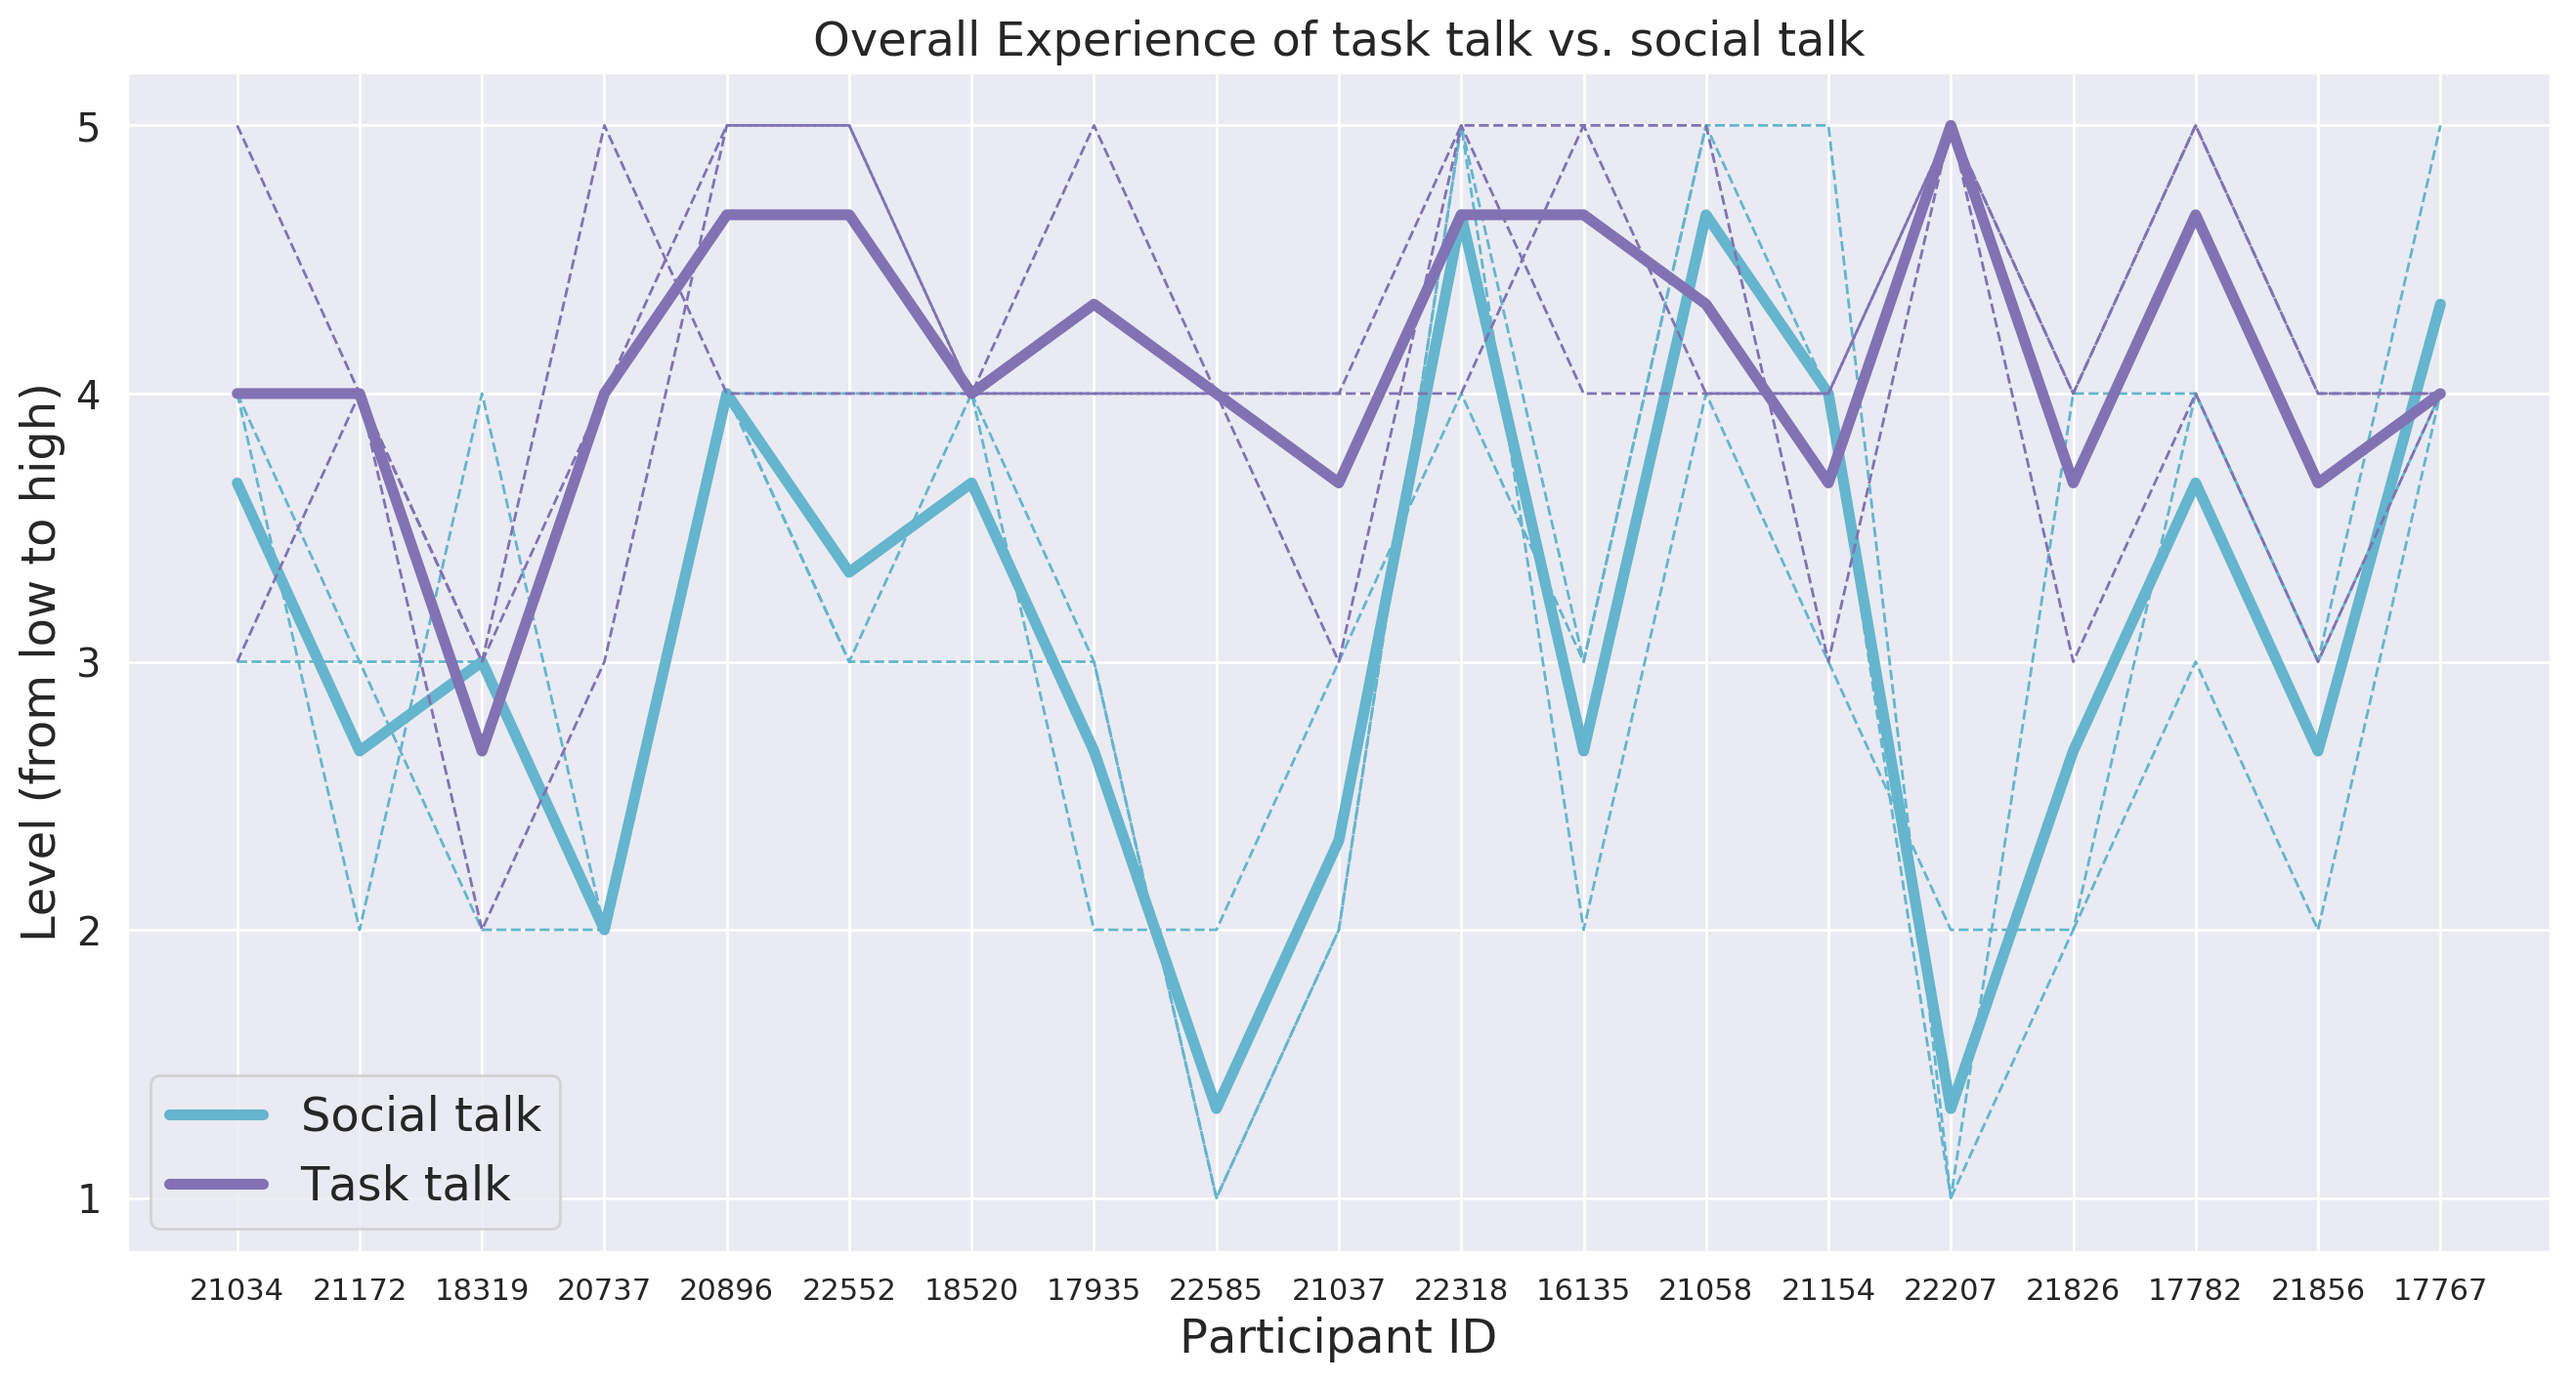
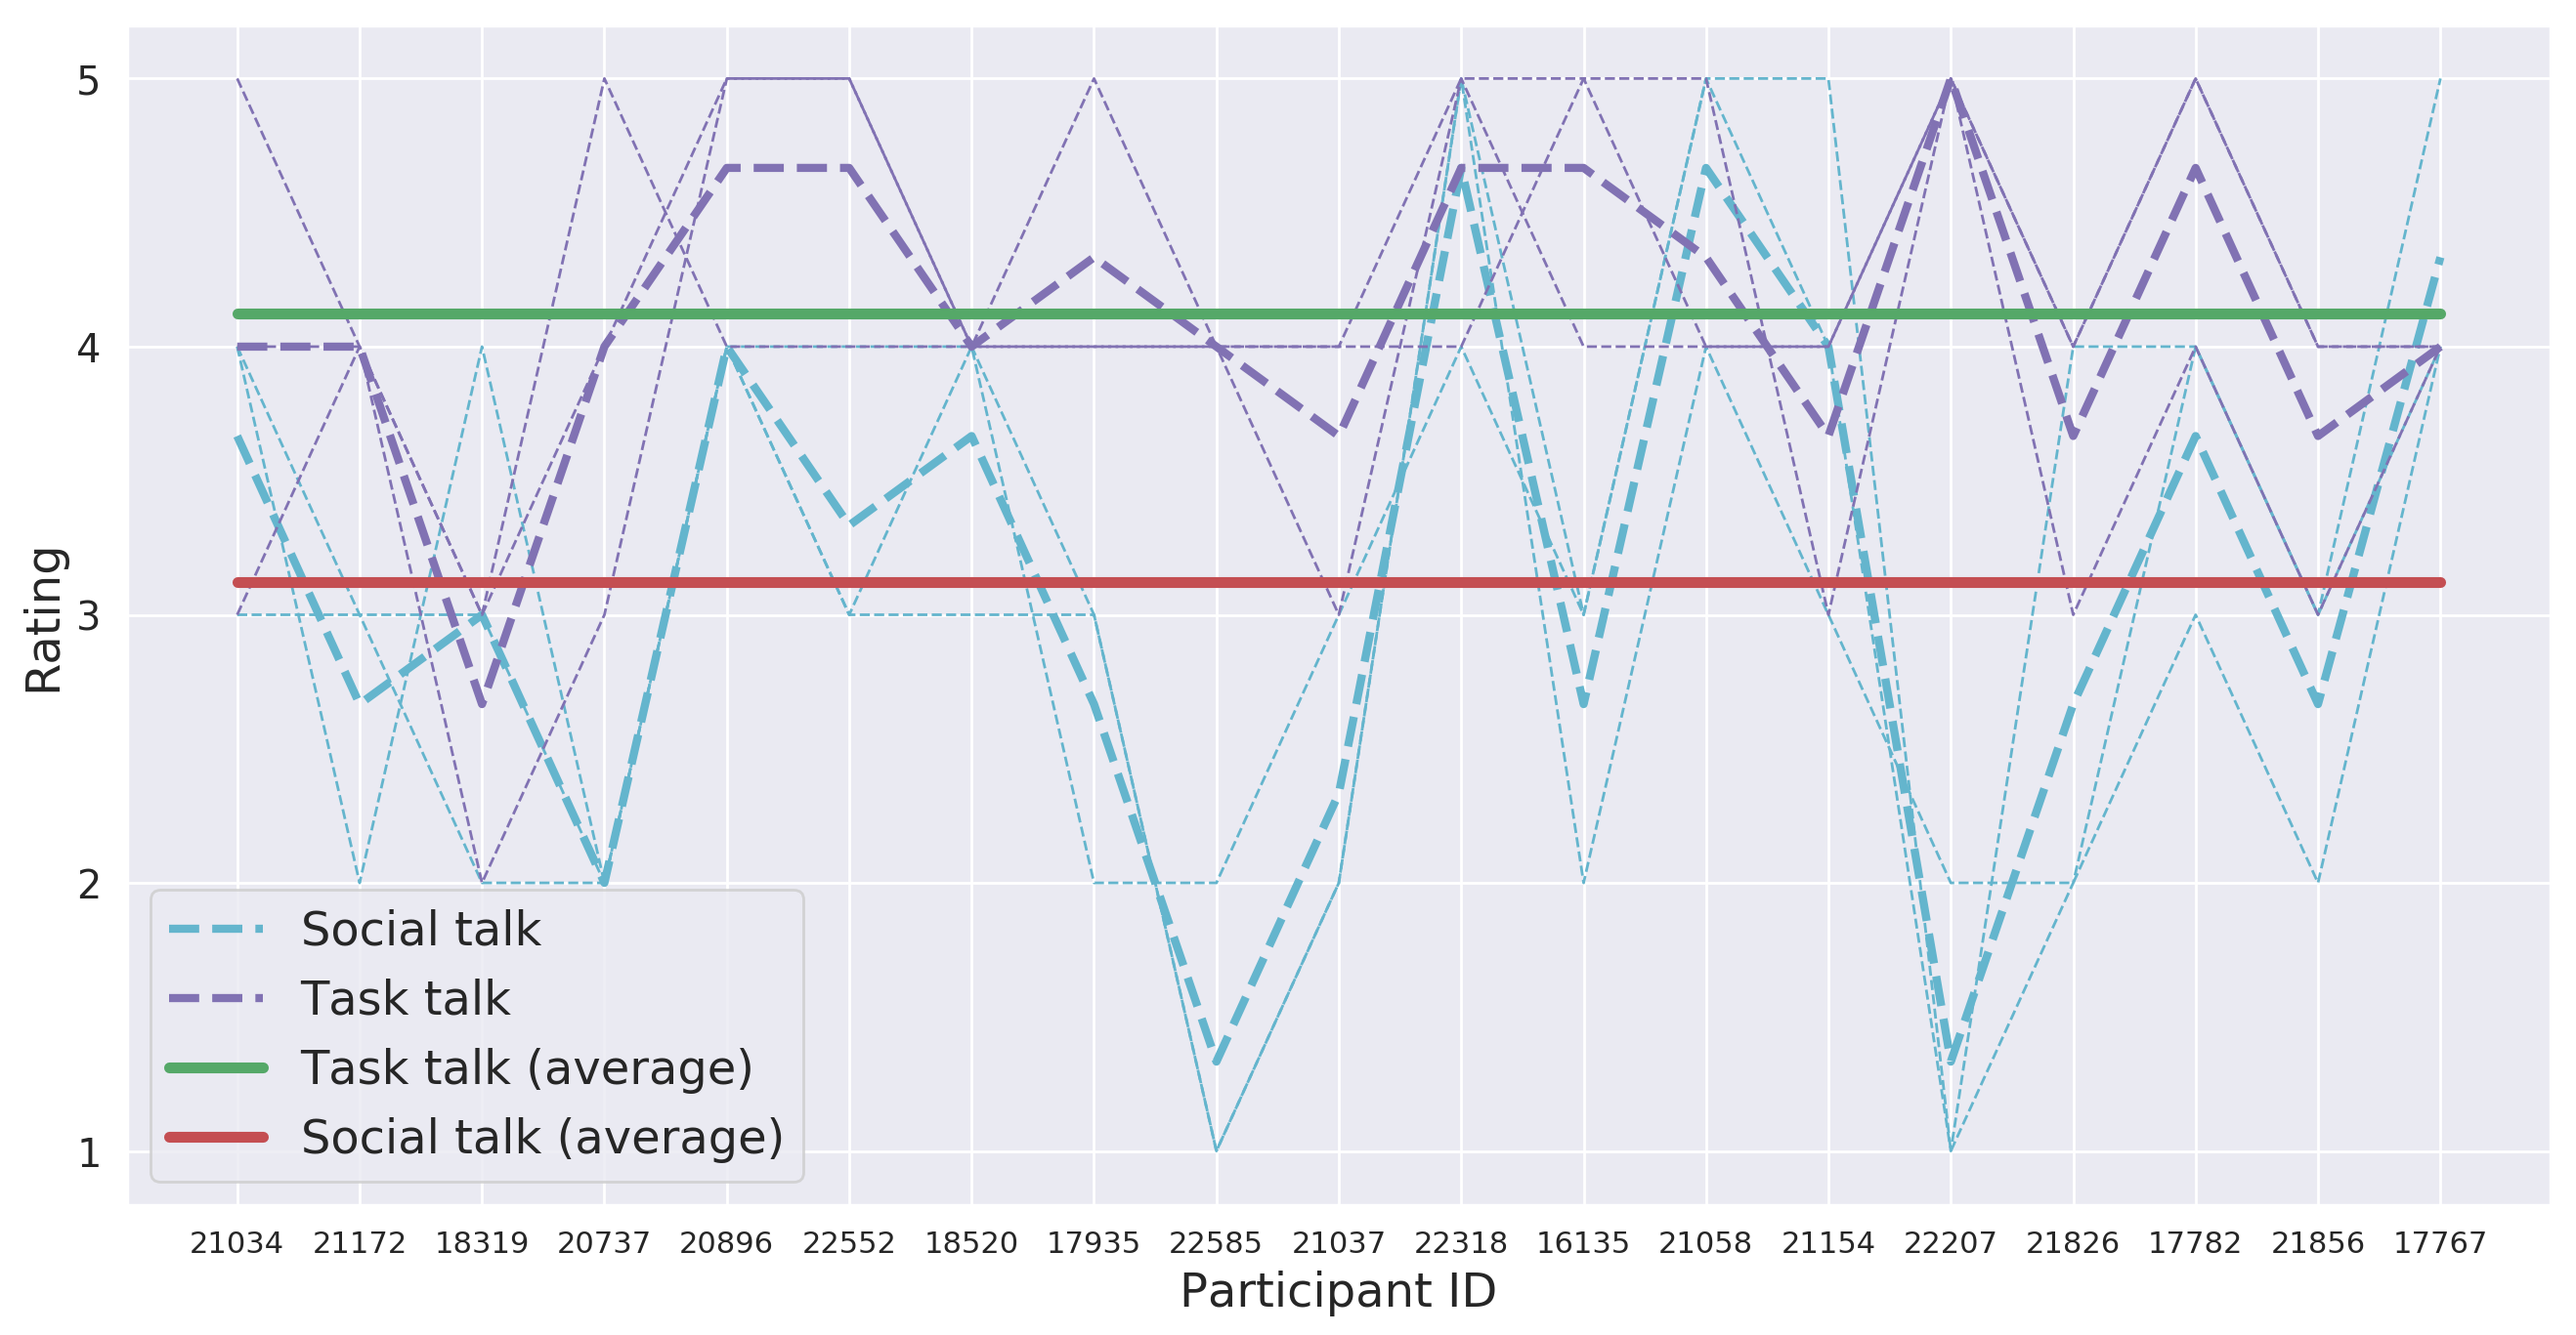
add bar chart

diff --git a/README.md b/README.md
@@ -41,21 +41,27 @@ This study aims to better understand people's expectations and behaviors when us
 
 <br /> 
 
+<div align=center><img width="600" src=https://github.com/QinganZhao/CMC-Project/blob/master/figs/rating.png>
+ 
+**Fig. 4:** Rating comparison between social talk and task talk
+
+<br /> 
+
 <div align=center><img width="600" src=https://github.com/QinganZhao/CMC-Project/blob/master/figs/wifi_vs_delay.png>
  
-**Fig. 4:** Delay comparison in terms of using WiFi
+**Fig. 5:** Delay comparison in terms of using WiFi
 
 <br /> 
 
 <img height="450" src=https://github.com/QinganZhao/CMC-Project/blob/master/figs/PPratingtodelay.png>  
 
-**Fig. 5:** Relations between participants' rating distribution and delay time
+**Fig. 6:** Relations between participants' rating distribution and delay time
 
 <br /> 
 
 <img height="450" src=https://github.com/QinganZhao/CMC-Project/blob/master/figs/ResponseTypetoTalkType.png>
 
-**Fig. 6:** Response type distribution for social and task talk
+**Fig. 7:** Response type distribution for social and task talk
 
 <br /> 
 
